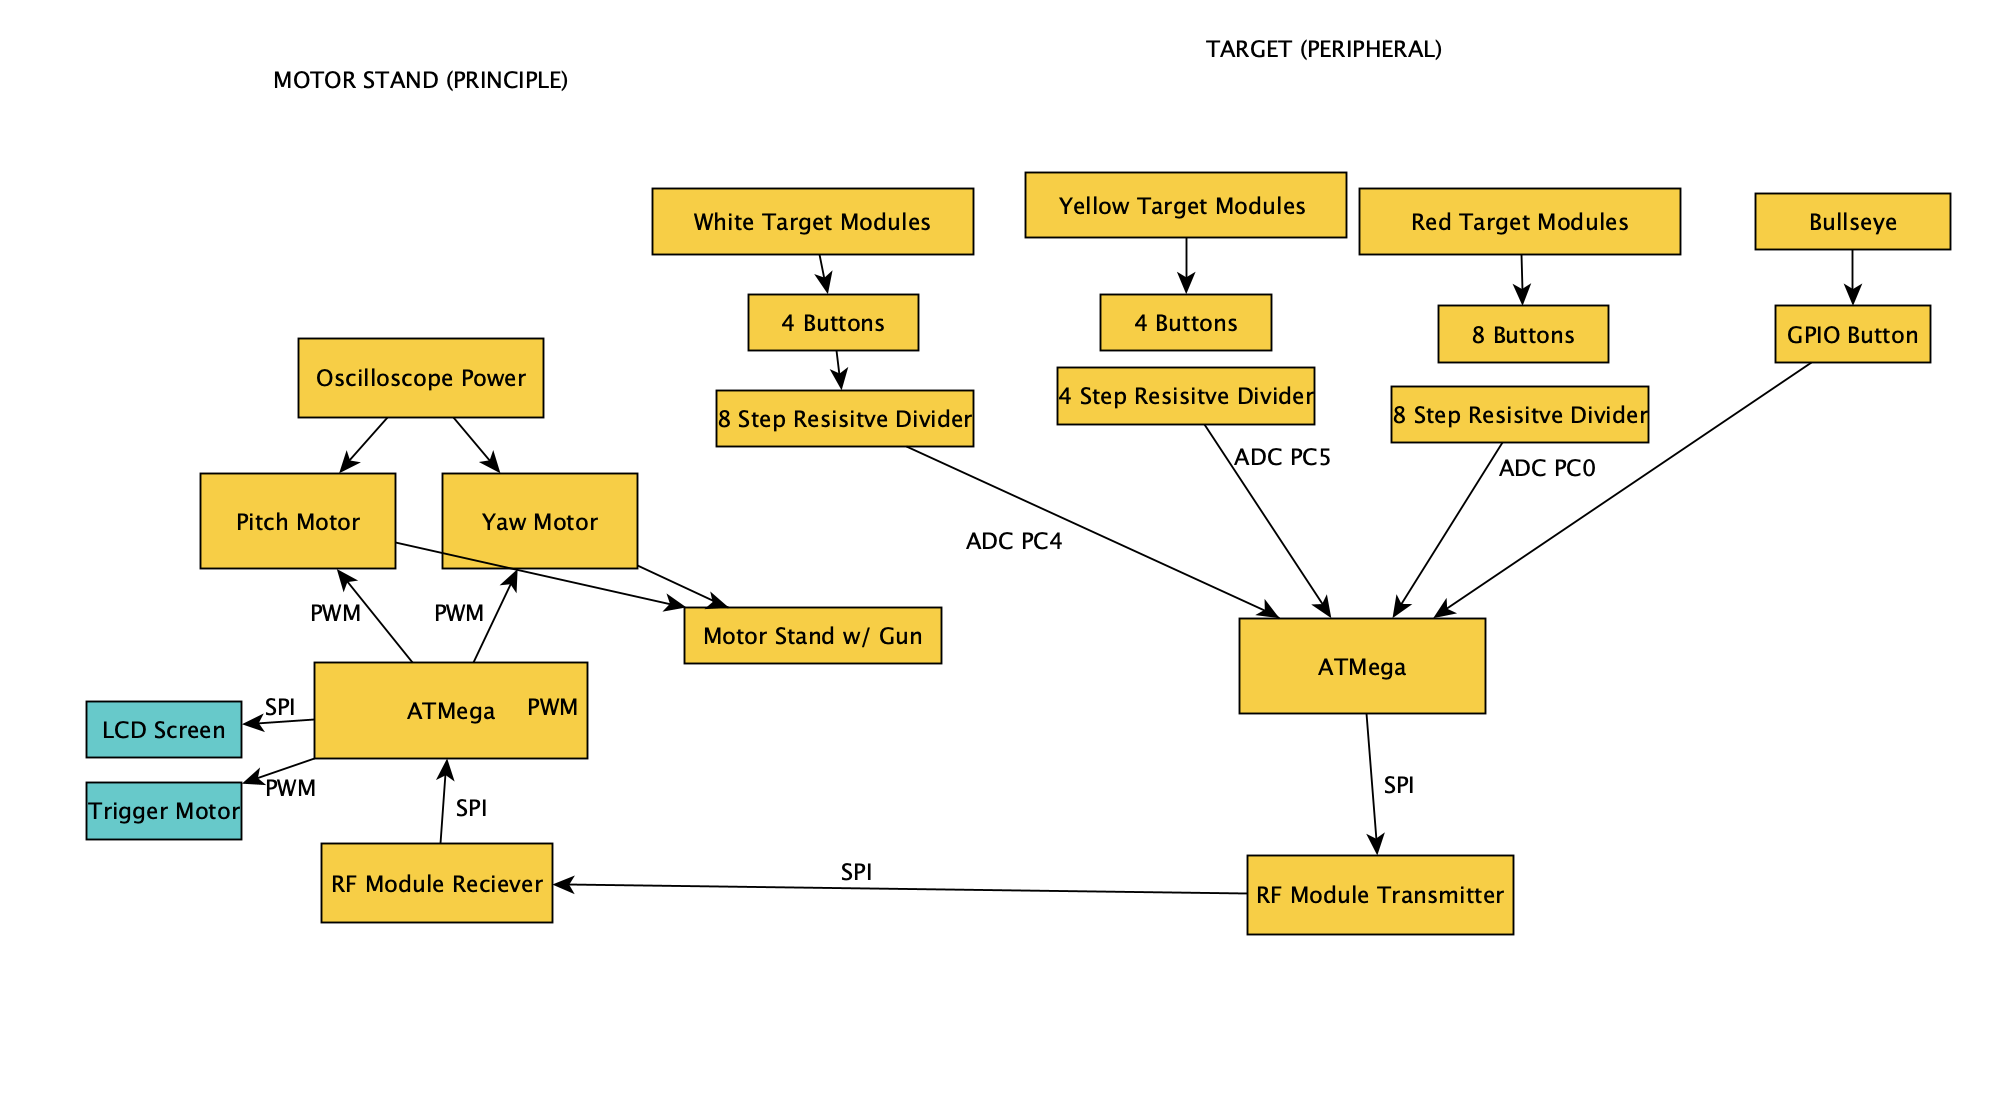
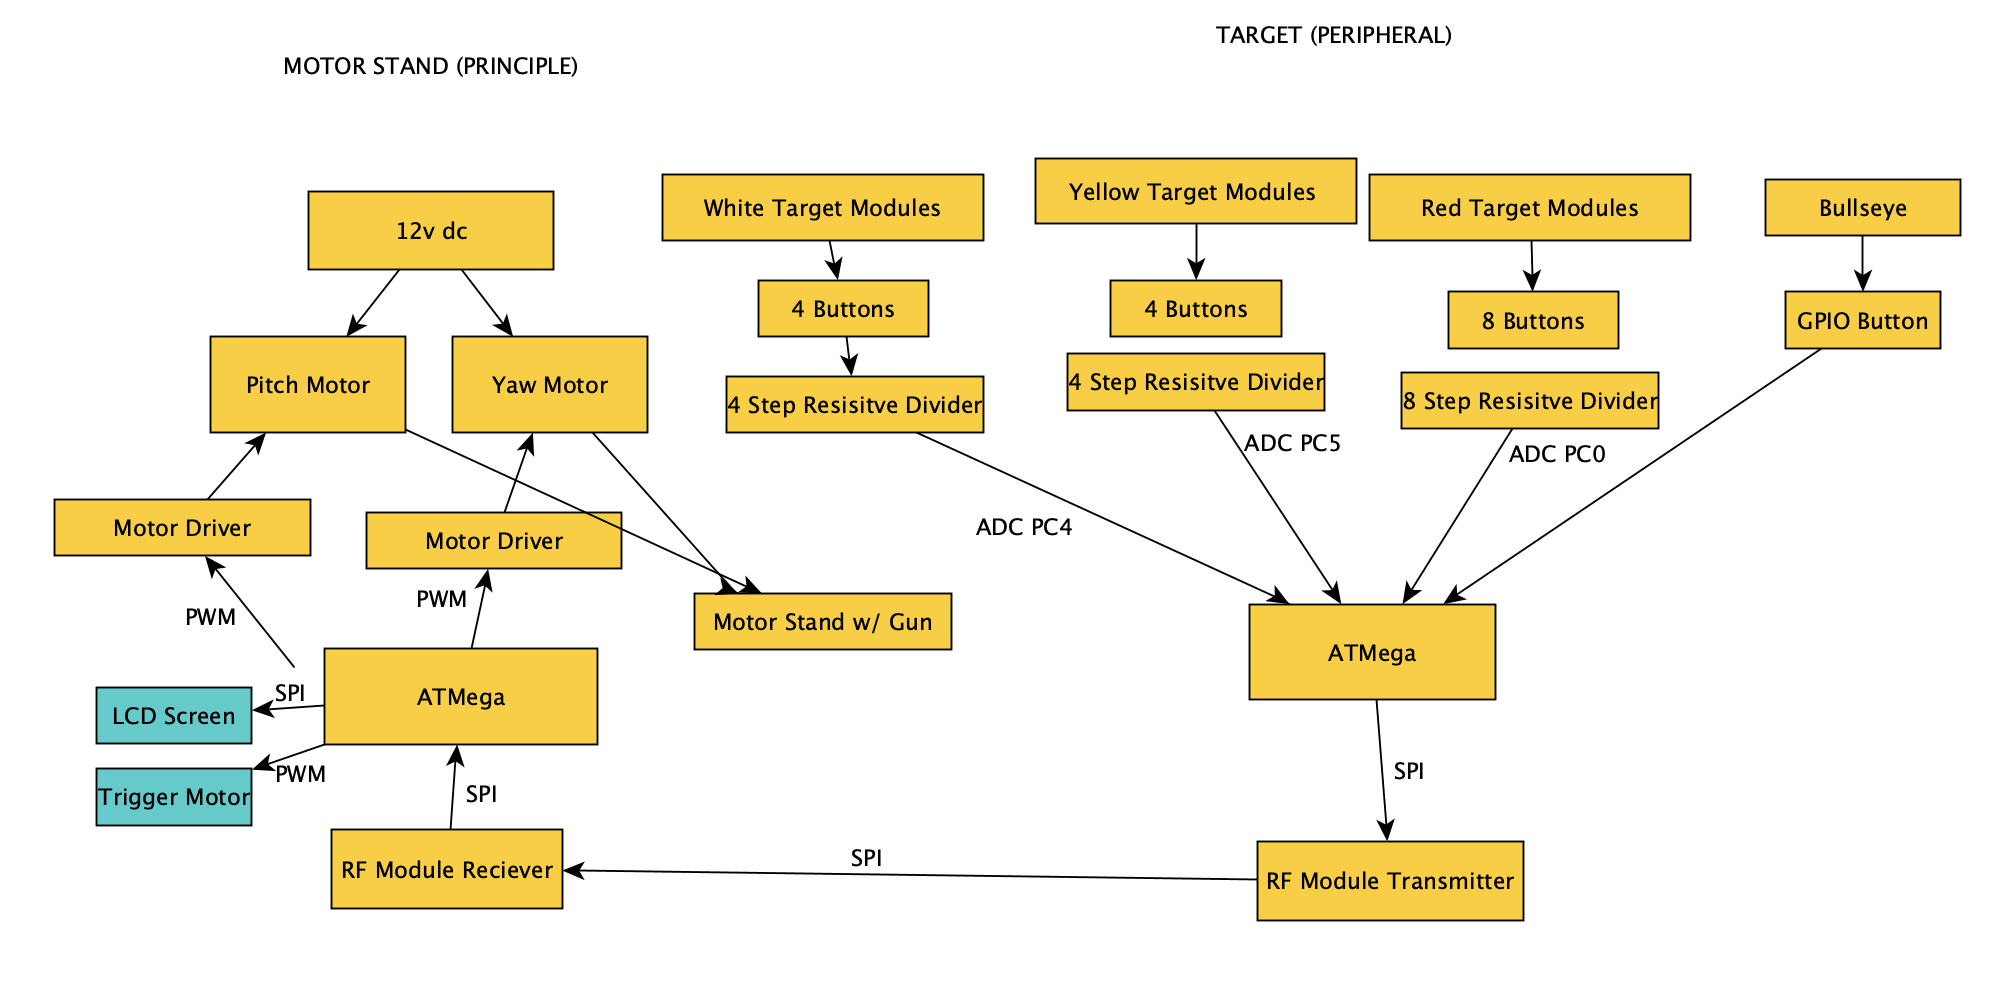
MVP Complete

diff --git a/README.md b/README.md
@@ -244,39 +244,126 @@ For the MVP, we aim to have the motors functioning properly and the full target 
 
 ## MVP Demo
 
-1. Show a system block diagram & explain the hardware implementation.
+**1. Show a system block diagram & explain the hardware implementation.**
 
-![image](MvpBlock.png)
+![image](MvpBlocK.png)
 The blue represents unfinished work
 
-2. Explain your firmware implementation, including application logic and critical drivers you've written.
+**2. Explain your firmware implementation, including application logic and critical drivers you've written.**
 
-3. Demo your device.
+Our firmware implementation is as follows: The target is standalone with an ATMega and an RF module attached. It has 17 buttons, which use 3 separate ADC Pins (PC0, PC4, PC5) as well as one GPIO pin for the bullseye. The buttons sit behind 17 separate laser cut acrylic pieces which are held up over the button by springs. When our nerf gun fires at the target in a certain spot, it will press down that button behind that acrylic pad.
 
-4. Have you achieved some or all of your Software Requirements Specification (SRS)?
+One thing that we noted last week was that the buttons were too far away for the pads to be able to register the hits, so we added these squares that sit right in the center, that hover over where the buttons are.
+![image](targetBuild.png)
+![image](targetBuild2.png)
 
-We have achieved nearly all of our SRS. We have achieved impact on the button sends a specific signal to the ATMega. The RF module sends the signal from one ATMega to the other that controls the motor. The Principle ATMega sucessfully moves our motor stand based on signals we send it via PWM. The two SRS requirements we haven't completed are the LCD screen and the trigger to automatically fire the nerf gun without us having to shoot it. These will be done by the final project. We thought they weren't necessary for the MVP to show our product worked as we intended.
+The buttons use ADC by going through three resisitve dividers. Each color of the target represents a ADC pin, and no two colors touch to ensure we dont fire two at the same time and get a random voltage reading.
+
+The buttons slot through the back of the target and are all soldered. The buttons all have a VCC pin which connect to their respective parts of the resisitve divider, and the other pin is the pin that connects to the ADC pin on the ATMega, so they are all a common node for each color.
+
+![image](Perfboard.png)
+![image](connectingButtons.png)
+
+The white and yellow modules share a perfboard while the red (which is 8 buttons) has its own.
+
+Here is an initial test video where the oscilloscope shows the voltage jump when the buttons are pressed: [Initial Test](https://drive.google.com/file/d/1Ti1Q_aNJvFZGLuL9JDWu-jdo0Eh8TL3k/view?usp=sharing)
+
+The final implementation of the target was able to print out the correct value wherever it hit to the terminal according to these values:
+
+![image](targetMap.jpg)
+
+Here are images of the final constructed target
+
+![image](TargetConstructed.png)
+![image](TargetConstructed2.png)
+
+We added a backing to ensire that the bullets push the springs rather than the entire board. It made the signals pick up more consistently since the bullets fire so quickly.
+
+Then, the RF modules are able to pick up on this transmision and send it to a separate ATMega. So if you shoot "R7" it will send "R7" to the other ATMega consistently.
+
+More on the RF: The RF uses SPI between two ATMegas that can sit accross the room from each other. The SPI transmitter on the target ATMega is on SPI 0 so that the PC pins are free for the ADC while on the motor ATMega, the SPI pin is SPI1 so it keeps as many GPIO pins for the motor drivers as free as possible.
+
+The code that runs the ADC button and transmission is called "ADCButton.c" and is in the github repo
+
+The code that recieves the signal and prints it is called "RF_Reciever" and the code that recieves it and moves our motors is called "gunCode.c" and "gunCalibrate.c". These are also on our repo.
+
+Here is a final video that walks through the target setup as well as the RF transmission and recieved message: [RF Module](https://drive.google.com/file/d/1rUKkpuHiJbicsA5cL1VGYTxgmowKyEMa/view?usp=sharing)
+
+The last part of our project is what currently needs the most work. Our stand for our gun can sucessfuly recieve a signal from the target and move, but it is quite unsteady and does not have a lot of torque.
+
+The two motors use PWM to control them and currently we don't have the right motor drivers to give enough current for them to be as steady as we want.
+
+Here is a video of it somewhat working how we want with half step movement: [Motor Control](https://drive.google.com/file/d/1HDAYzmUnKHeJbwB2_LW9rC8Y2Iv4ZrEs/view?usp=sharing)
+
+This video demonstrates the capability to move both up and sideways at the same time, emulating diagonal movement.
+
+We've set up code for it to be able to move according to where the target is set and it is in our repo, but still, the gun is too unsteady, so we plan to add a gear box and more stability.
+
+**3. Demo your device.**
+
+Done in class, see full video (same as above): [Video](https://drive.google.com/file/d/1rUKkpuHiJbicsA5cL1VGYTxgmowKyEMa/view?usp=sharing)
+
+<div style="page-break-after: always;"></div>
+
+**4. Have you achieved some or all of your Software Requirements Specification (SRS)?**
+
+Our SRS (Modified to fit buttons over pressure sensors)
+
+| ID     | Description                                                                                                                                                                                                                                             |
+| ------ | ------------------------------------------------------------------------------------------------------------------------------------------------------------------------------------------------------------------------------------------------------- |
+| SRS-01 | Impact on a target module square will press the button underneath, and send a certain ADC signal to the peripheral ATMega which can be decoded to that specific button                                                                                  |
+| SRS-02 | Peripheral ATMega sends button coordinates (color and number) to principal ATMega via SPI RF modules                                                                                                                                                    |
+| SRS-03 | The principal ATMega controls directional motors via PWM based on which button was sent from the target hit and aims more towards the center                                                                                                            |
+| SRS-04 | Principal ATMega uses a timer to pull the trigger on the nerf gun every 5 seconds (time for the motors to adjust) of the peripheral receiving input and outputting to the principal ATMega. The trigger will be pulled using a servo controlled by PWM. |
+| SRS-05 | The ATMega will be able to turn on and off the motor control inside the gun to initiate the sequence.                                                                                                                                                   |
+| SRS-06 | (Optional) LCD Screen to show where the bullet made contact with the board.                                                                                                                                                                             |
+
+We have achieved nearly all of our SRS. We have achieved 1,2 and 3 partially and 4 and 5 (and maybe 6) will be completed this week.
+
+We have achieved impact on the button sends a specific signal to the ATMega. The RF module sends the signal from one ATMega to the other that controls the motor. The Principle ATMega sucessfully moves our motor stand based on signals we send it via PWM.
 
 1.  Show how you collected data and the outcomes.
 
-Each target piece has a button behind it, that is triggered when the bullet hits it. Each color is associated with a different ADC pin, where different pins are part of a different resisitve divider.
+As explained in the firmware explanation: each target piece has a button behind it, that is triggered when the bullet hits it. Each button can be separately registered and sent over RF. There is a video that shows this in its entirety above. The motors are still a little unsteady but we could see the target sending a signal to the motor because the motor was drawing current whenever we pressed a target module.
 
-5. Have you achieved some or all of your Hardware Requirements Specification (HRS)?
+**5. Have you achieved some or all of your Hardware Requirements Specification (HRS)?**
 
-   1. Show how you collected data and the outcomes.
+Our HRS (Modified)
+| ID | Description |
+| ------ | -------------------------------------------------------------------------------------------------------------------------------------------------------------------- |
+| HRS-01 | 17 Buttons will be used on the peripheral target that will signal force from projectile to peripheral ATMega |
+| HRS-02 | LCD Display connected to principal ATMega will display location and distance from center of recieved impacted projectile|
+| HRS-03 | Two electronic motors will be used to control the pitch and yaw |
+| HRS-04 | An electronic motor will be used to "press" the trigger of the nerf gun (or triggering mechanism will be hardwired to the ATMega) |
+| HRS-05 | Nerf gun will launch projectile towards the peripheral target |
 
-6. Show off the remaining elements that will make your project whole: mechanical casework, supporting graphical user interface (GUI), web portal, etc.
+Similarly to SRS, we have completed and tested the buttons, and motors. The buttons work well and all register as we want, while the motors still need work. They can hold the gun up and turn, but very slowly and often falls. We will need to work most on triggering the gun with a separate servo motor as well as making the stand more steady to ensure the movement is accurate
 
-The target is practically complete, and all of the pieces are printed. The remaining elements are the LCD screen and making the trigger motor to ensure we do not have to touch it as it runs. Then we will also add functionality to ensure that if a bullet triggers two buttons it can understand where it hit more clearly. Lastly, we will make our motor stand more powerful by attaching new motor drivers.
+1.  Show how you collected data and the outcomes.
 
-7. What is the riskiest part remaining of your project?
+See videos in firmware explanation
 
-The trigger for the gun being automatic. It will be difficult to do this because we need to find a way to both activate the power and press the mechanical switch without touching the gun or misaligning it.
+**6. Show off the remaining elements that will make your project whole: mechanical casework, supporting graphical user interface (GUI), web portal, etc.**
+
+The target is practically complete, and all of the pieces are printed. The remaining elements are:
+
+1. Fixing the motor stand to move correctly when we send a signal to it. It can recieve the signal well, but making it move correctly is not working as well as it is unsteady. It will help when our new motor drivers arrive.
+2. We also need to work on making the trigger motor with a separate servo motor to ensure we do not have to touch it as it runs to make it as accurate as possible.
+3. We will also add functionality to ensure that if a bullet triggers two buttons (hits in between) it can understand where it hit more clearly and move accordingly
+4. Optionally: adding an LCD screen to show where the bullet hit.
+
+**7. What is the riskiest part remaining of your project?**
+
+The trigger for the gun being automatic. It will be difficult to do this because we need to find a way to both activate the power from the ATMega and press the mechanical switch without physically touching the gun or misaligning it. Another risky part is the stand that we need to somewhat redesign. We need to add a gear box to up the torque.
 
 1. How do you plan to de-risk this?
-   One option is hardwiring, and our backup option is just phsically actuating it. We will use servos to pull both buttons that need to be pulled to ensure it works.
+   One option is hardwiring, and our backup option is just phsically actuating it. We will use servos to pull the trigger button and use the ATmega to turn on the motors inside the gun. In terms of the stand, starting early!
 
-2. What questions or help do you need from the teaching team?
+**8. What questions or help do you need from the teaching team?**
+
+We might need some help with the gearbox, but I think for now we have it covered!
+
+<div style="page-break-after: always;"></div>
 
 ## Final Project Report
 
